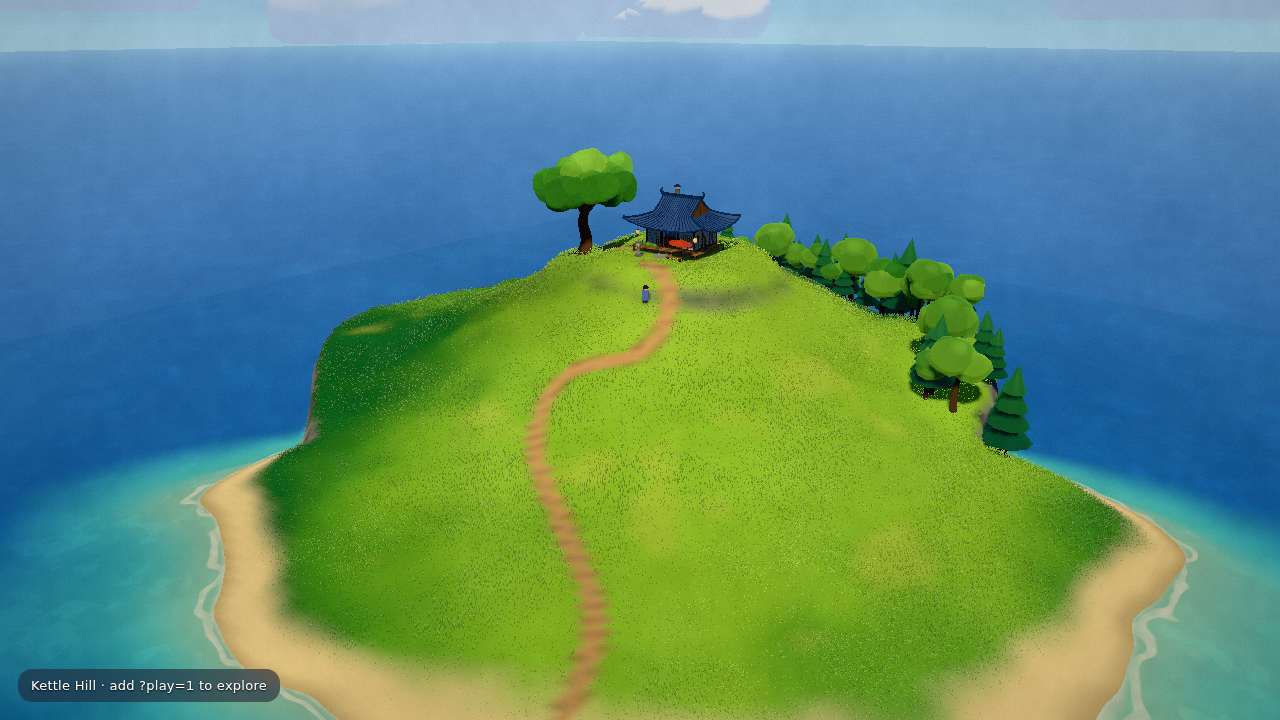
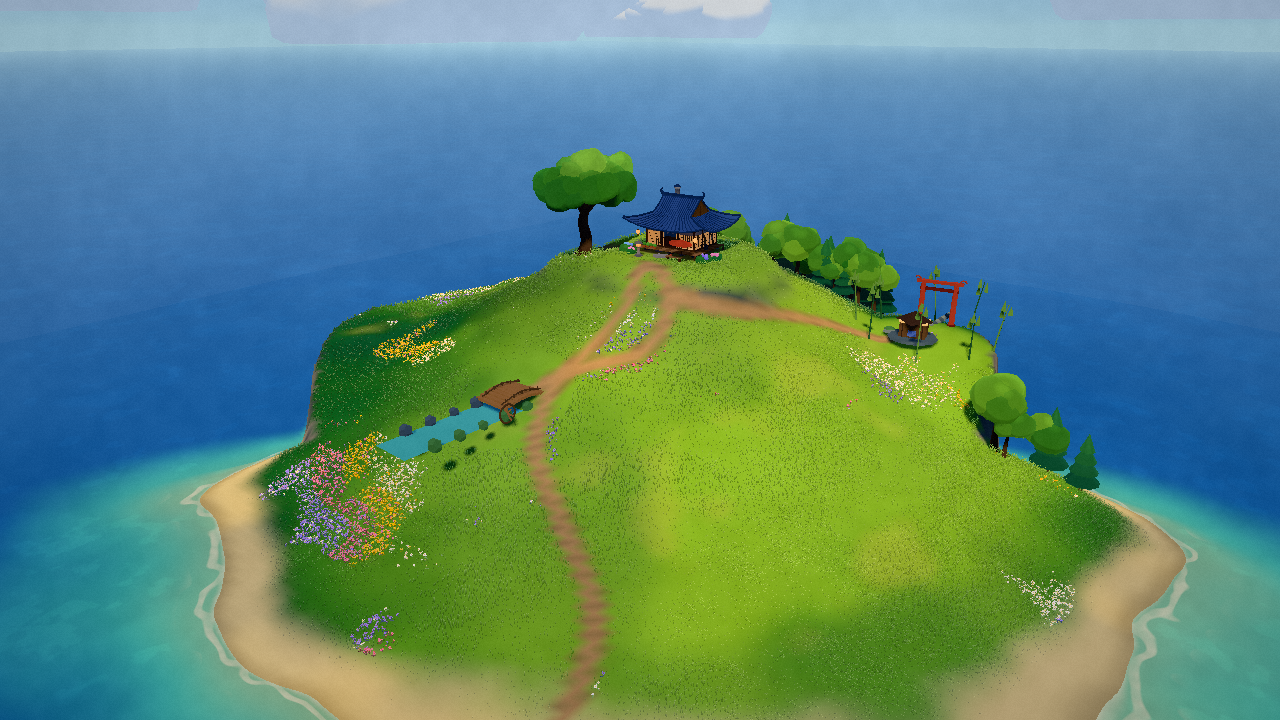
feat: begin visual upgrade with shrine and moonbridge destinations

diff --git a/src/models/places.ts b/src/models/places.ts
@@ -1,0 +1,115 @@
+import * as THREE from 'three';
+import { tube } from '../lib/geo';
+import { heightAt } from '../world/terrain';
+import { toon } from '../render/toon';
+
+export interface PlaceLandmark {
+  group: THREE.Group;
+  focus: THREE.Vector3;
+  name: string;
+}
+
+const MAT = {
+  wood: '#72523d', woodDark: '#45352f', bamboo: '#769b55', bambooDark: '#416442',
+  vermilion: '#b84f42', vermilionDark: '#74312e', stone: '#87918a', stoneDark: '#5d6866',
+  moss: '#5f8751', water: '#66b8ae', bridge: '#a97a4f', bridgeDark: '#614733',
+  paper: '#f2d59e', blue: '#6d83bd',
+};
+const m = (color: THREE.ColorRepresentation, rim = 0.3) => toon({ color, rim, vertexColors: false });
+const put = (g: THREE.Group, geo: THREE.BufferGeometry, mat: THREE.Material, x: number, y: number, z: number, scale = 1) => {
+  const o = new THREE.Mesh(geo, mat); o.position.set(x, y, z); o.scale.setScalar(scale); o.castShadow = o.receiveShadow = true; g.add(o); return o;
+};
+
+function torii(): THREE.Group {
+  const g = new THREE.Group();
+  const red = m(MAT.vermilion, 0.45), dark = m(MAT.vermilionDark, 0.3);
+  // two posts with stone feet, crossbeam and slightly lifted kasagi ends
+  for (const x of [-2.0, 2.0]) {
+    put(g, new THREE.CylinderGeometry(0.3, 0.38, 5.8, 10), red, x, 2.95, 0);
+    put(g, new THREE.CylinderGeometry(0.48, 0.55, 0.26, 8), dark, x, 0.15, 0);
+  }
+  put(g, new THREE.BoxGeometry(5.8, 0.34, 0.5), red, 0, 5.65, 0);
+  put(g, new THREE.BoxGeometry(4.8, 0.34, 0.4), dark, 0, 4.7, 0);
+  // curled, capped tips make the gate an authored silhouette rather than a box
+  for (const s of [-1, 1]) {
+    const tip = new THREE.Mesh(new THREE.TorusGeometry(0.45, 0.09, 6, 12, Math.PI * 0.85), red);
+    tip.position.set(s * 2.8, 5.75, 0); tip.rotation.z = s * 0.45; tip.castShadow = true; g.add(tip);
+  }
+  return g;
+}
+
+function bamboo(g: THREE.Group, x: number, z: number, h: number, lean: number, seed: number) {
+  const pts = [new THREE.Vector3(x, heightAt(x, z), z), new THREE.Vector3(x + lean * 0.25, heightAt(x, z) + h * 0.35, z + lean * 0.12), new THREE.Vector3(x + lean, heightAt(x, z) + h, z + lean * 0.35)];
+  const stem = new THREE.Mesh(tube(pts, 0.11, 0.06, 8, 10), m(seed % 2 ? MAT.bamboo : MAT.bambooDark, 0.45));
+  stem.castShadow = stem.receiveShadow = true; g.add(stem);
+  for (let i = 1; i < 6; i++) {
+    const t = i / 6; const y = heightAt(x, z) + h * t; const xx = x + lean * t; const zz = z + lean * 0.35 * t;
+    const node = new THREE.Mesh(new THREE.TorusGeometry(0.115 - t * 0.04, 0.018, 5, 8), m(MAT.bambooDark, 0.25)); node.position.set(xx, y, zz); node.rotation.x = Math.PI / 2; g.add(node);
+  }
+  const leaves = [
+    [x + lean * 0.85 - 0.5, heightAt(x, z) + h * 0.82, z + lean * 0.25],
+    [x + lean * 0.9 + 0.45, heightAt(x, z) + h * 0.9, z + lean * 0.35],
+    [x + lean * 0.6, heightAt(x, z) + h * 0.98, z + lean * 0.2 + 0.45],
+  ];
+  for (const [lx, ly, lz] of leaves) put(g, new THREE.ConeGeometry(0.33, 1.25, 5), m(MAT.bamboo, 0.5), lx, ly, lz, 1);
+}
+
+export function createBambooShrine(): PlaceLandmark {
+  const g = new THREE.Group();
+  const x = 30, z = -20, y = heightAt(x, z);
+  const grove = new THREE.Group();
+  for (let i = 0; i < 8; i++) {
+    const a = i * 2.399 + 0.3, r = 7.5 + (i % 3) * 0.65;
+    const bx = x + Math.cos(a) * r, bz = z + Math.sin(a) * r;
+    bamboo(grove, bx, bz, 5.6 + (i % 4) * 0.6, Math.sin(i * 4.2) * 1.2, i);
+  }
+  g.add(grove);
+  const gate = torii(); gate.position.set(x, y, z - 4.2); gate.rotation.y = 0.25; g.add(gate);
+  // small shrine behind the torii, with a blue noren and peaked roof
+  const hut = new THREE.Group(); hut.position.set(x, y + 0.12, z + 2.5); hut.rotation.y = 0.25;
+  put(g, new THREE.CylinderGeometry(2.8, 3.1, 0.28, 10), m(MAT.stoneDark, 0.25), x, y + 0.14, z + 2.5);
+  put(hut, new THREE.BoxGeometry(3.2, 2.0, 2.2), m(MAT.wood, 0.3), 0, 1.0, 0);
+  put(hut, new THREE.BoxGeometry(3.45, 0.18, 2.45), m(MAT.paper, 0.25), 0, 2.1, 0);
+  put(hut, new THREE.ConeGeometry(2.35, 1.25, 4), m(MAT.woodDark, 0.35), 0, 2.75, 0, 1);
+  put(hut, new THREE.BoxGeometry(1.0, 0.75, 0.06), m(MAT.blue, 0.4), 0, 0.72, 1.14);
+  for (const xx of [-1.2, 1.2]) put(hut, new THREE.BoxGeometry(0.12, 1.9, 0.12), m(MAT.woodDark, 0.25), xx, 1.0, 1.14);
+  g.add(hut);
+  // offering basin and stepping stones
+  put(g, new THREE.CylinderGeometry(0.65, 0.8, 0.42, 8), m(MAT.stone, 0.25), x - 3.2, y + 0.22, z + 2.4);
+  put(g, new THREE.CylinderGeometry(0.55, 0.7, 0.14, 8), m(MAT.moss, 0.45), x - 3.2, y + 0.49, z + 2.4);
+  for (let i = 0; i < 7; i++) put(g, new THREE.DodecahedronGeometry(0.38, 0), m(i % 2 ? MAT.stoneDark : MAT.stone, 0.3), x, y + 0.12, z - 9 + i * 1.0, 1.1);
+  return { group: g, focus: new THREE.Vector3(x, y + 2.2, z), name: 'Bamboo Shrine' };
+}
+
+function bridgeMesh(): THREE.Group {
+  const g = new THREE.Group();
+  const wood = m(MAT.bridge, 0.35), dark = m(MAT.bridgeDark, 0.25);
+  // deck planks run across the stream, raised in a gentle arch along +Z
+  for (let i = -5; i <= 5; i++) {
+    const z = i * 0.58, arch = 0.55 * (1 - (z / 3.0) ** 2);
+    put(g, new THREE.BoxGeometry(4.8, 0.32, 0.5), wood, 0, arch + 0.72, z);
+  }
+  for (const x of [-1.65, 1.65]) {
+    const pts = [new THREE.Vector3(x, 1.1, -3), new THREE.Vector3(x, 1.75, 0), new THREE.Vector3(x, 1.1, 3)];
+    const r = new THREE.Mesh(tube(pts, 0.1, 0.08, 7, 12), dark); r.castShadow = true; g.add(r);
+    for (let i = -2; i <= 2; i++) put(g, new THREE.BoxGeometry(0.12, 0.65, 0.12), dark, x, 1.08 + 0.45 * (1 - (i / 2.5) ** 2), i * 1.18);
+  }
+  return g;
+}
+
+export function createMoonbridge(): PlaceLandmark {
+  const g = new THREE.Group(); const x = 2, z = 24, y = heightAt(x, z);
+  // stream: a shallow blue ribbon plus mossy banks and stones
+  const stream = m(MAT.water, 0.5);
+  const water = new THREE.Mesh(new THREE.PlaneGeometry(9, 30, 1, 12), stream); water.rotation.x = -Math.PI / 2; water.position.set(x, y - 0.18, z + 1); water.scale.x = 0.55; water.receiveShadow = true; g.add(water);
+  for (const side of [-1, 1]) {
+    for (let i = -4; i <= 4; i++) put(g, new THREE.DodecahedronGeometry(0.55 + (i + 4) % 3 * 0.1, 0), m(side > 0 ? MAT.moss : MAT.stoneDark, 0.35), x + side * 2.5, y + 0.1, z + i * 3.1, 1.1);
+  }
+  const bridge = bridgeMesh(); bridge.position.set(x, y, z); g.add(bridge);
+  // waterwheel silhouette on the east bank
+  const wheel = new THREE.Group(); wheel.position.set(x + 3.0, y + 0.6, z + 3.3);
+  const disc = new THREE.Mesh(new THREE.TorusGeometry(1.05, 0.12, 7, 14), m(MAT.bridgeDark, 0.3)); disc.rotation.y = Math.PI / 2; wheel.add(disc);
+  for (let i = 0; i < 8; i++) put(wheel, new THREE.BoxGeometry(0.12, 1.8, 0.16), m(MAT.bridge, 0.25), 0, 0, 0, 1);
+  wheel.children.slice(1).forEach((o, i) => o.rotation.z = i * Math.PI / 4); g.add(wheel);
+  return { group: g, focus: new THREE.Vector3(x, y + 1.5, z), name: 'Moonbridge Stream' };
+}

diff --git a/src/main.ts b/src/main.ts
@@ -3,12 +3,13 @@ import { globalUniforms, toon } from './render/toon';
 import { createPost } from './render/post';
 import { dayState } from './world/daylight';
 import { createSky } from './world/sky';
-import { buildTerrain, heightAt, HOUSE, HOUSE_ROT, HERO_TREE, LOOKOUT, surfaceAt } from './world/terrain';
+import { buildTerrain, heightAt, HOUSE, HOUSE_ROT, HERO_TREE, LOOKOUT, SHRINE, BRIDGE, surfaceAt } from './world/terrain';
 import { createSea } from './world/sea';
 import { createGrass } from './world/grass';
 import { createClouds } from './world/clouds';
 import { createHeroTree, createSmallTree } from './models/trees';
 import { createTeaHouse } from './models/teahouse';
+import { createBambooShrine, createMoonbridge } from './models/places';
 import { mulberry32 } from './lib/noise';
 import { InputController } from './game/input';
 import { createFlowers, createHydrangeas, createPetals } from './world/life';
@@ -92,6 +93,12 @@ const house = createTeaHouse();
 house.group.position.copy(HOUSE);
 house.group.rotation.y = HOUSE_ROT;
 scene.add(house.group);
+
+// authored discovery landmarks: each gets a distinct silhouette and a reveal camera
+const shrine = createBambooShrine();
+scene.add(shrine.group);
+const bridge = createMoonbridge();
+scene.add(bridge.group);
 const lanternLights: THREE.PointLight[] = [];
 for (const a of house.lightAnchors) {
   const l = new THREE.PointLight(0xffb060, 0, 9, 1.6);
@@ -122,6 +129,9 @@ for (let i = 0; i < 400 && planted < 46; i++) {
   const s = surfaceAt(x, z);
   if (s.kind !== 'grass' || heightAt(x, z) < 1.5) continue;
   if (Math.hypot(x - HOUSE.x, z - HOUSE.z) < 16) continue;
+  // reserve clearings around discovery landmarks; distant trees frame them, not bury them
+  if (Math.hypot(x - SHRINE.x, z - SHRINE.z) < 18) continue;
+  if (Math.hypot(x - BRIDGE.x, z - BRIDGE.z) < 12) continue;
   const t = createSmallTree(100 + i, rand() < 0.45 ? 'pine' : 'round');
   t.position.set(x, groundMin(x, z, 0.5) - 0.08, z);
   t.rotation.y = rand() * 6.28;
@@ -229,6 +239,9 @@ const presets: Record<string, [THREE.Vector3, THREE.Vector3]> = {
   corner: [house.group.localToWorld(new THREE.Vector3(10.5, 6.2, 9.5)), house.group.localToWorld(new THREE.Vector3(5.2, 3.9, 3.8))],
   cornerlow: [house.group.localToWorld(new THREE.Vector3(9.5, 2.2, 9.0)), house.group.localToWorld(new THREE.Vector3(5.2, 3.9, 3.8))],
   tip: [house.group.localToWorld(new THREE.Vector3(5.2, 3.6, 11.5)), house.group.localToWorld(new THREE.Vector3(5.6, 4.1, 4.6))],
+  // high reveal camera: the shrine sits on the eastern shoulder; stay above the intervening ridge
+  shrine: [new THREE.Vector3(shrine.focus.x + 10, shrine.focus.y + 16, shrine.focus.z - 20), new THREE.Vector3(shrine.focus.x, shrine.focus.y + 0.8, shrine.focus.z)],
+  bridge: [new THREE.Vector3(bridge.focus.x + 8, bridge.focus.y + 4.2, bridge.focus.z + 10), bridge.focus],
 };
 HERO_TREE.y = heightAt(HERO_TREE.x, HERO_TREE.z);
 presets.tree = [new THREE.Vector3(HERO_TREE.x + 13, HERO_TREE.y + 3, HERO_TREE.z + 17), new THREE.Vector3(HERO_TREE.x - 4, HERO_TREE.y + 5.5, HERO_TREE.z - 2)];

diff --git a/src/world/terrain.ts b/src/world/terrain.ts
@@ -16,11 +16,16 @@ export const HOUSE = new THREE.Vector3(2, 0, -6); // y filled in at bake
 export const HOUSE_ROT = 0.12; // yaw of the tea house (radians)
 export const HERO_TREE = new THREE.Vector3(-11, 0, -1);
 export const LOOKOUT = new THREE.Vector3(-34, 0, -9);
+export const SHRINE = new THREE.Vector3(30, 0, -20);
+export const BRIDGE = new THREE.Vector3(2, 0, 24);
 
 // Path: beach -> switchbacks -> tea house porch.
 const PATH_POINTS = [
   [36, 52], [30, 40], [19, 33], [9, 27], [5, 19], [11, 12], [9, 5], [3, 2],
 ].map(([x, z]) => new THREE.Vector3(x, 0, z));
+// Discovery paths: the teahouse junction branches to the stream and bamboo shrine.
+const BRIDGE_PATH_POINTS = [[3, 2], [5, 9], [5, 16], [2, 24]].map(([x, z]) => new THREE.Vector3(x, 0, z));
+const SHRINE_PATH_POINTS = [[9, 5], [15, 1], [21, -8], [30, -20]].map(([x, z]) => new THREE.Vector3(x, 0, z));
 // Side path to the cliff lookout.
 const LOOKOUT_POINTS = [
   [-4, -2], [-14, -6], [-24, -6], [-32, -9],
@@ -38,6 +43,8 @@ function sampleCurve(points: THREE.Vector3[], n: number): Float32Array {
 }
 export const PATH = sampleCurve(PATH_POINTS, 220);
 export const LOOKOUT_PATH = sampleCurve(LOOKOUT_POINTS, 80);
+export const BRIDGE_PATH = sampleCurve(BRIDGE_PATH_POINTS, 130);
+export const SHRINE_PATH = sampleCurve(SHRINE_PATH_POINTS, 150);
 
 function distToPolyline(poly: Float32Array, x: number, z: number): number {
   let best = 1e9;
@@ -115,6 +122,7 @@ function bake() {
       if (Math.abs(x) < 70 && z > -30 && z < 70) {
         pd = Math.min(distToPolyline(PATH, x, z), distToPolyline(LOOKOUT_PATH, x, z));
       }
+      pd = Math.min(pd, distToPolyline(BRIDGE_PATH, x, z), distToPolyline(SHRINE_PATH, x, z));
       pathDist[idx(i, j)] = pd;
       h -= 0.12 * smoothstep(1.6, 0.4, pd);
       heights[idx(i, j)] = h;

diff --git a/src/world/grass.ts b/src/world/grass.ts
@@ -48,6 +48,10 @@ export function createGrass(count = 140000, radius = 78) {
     const r = Math.sqrt(rand()) * radius;
     const x = Math.cos(a) * r + 2, z = Math.sin(a) * r * 0.95 + 4;
     const surf = surfaceAt(x, z);
+    // authored clearings keep the shrine/bridge silhouettes readable from their reveal shots
+    const shrineClear = Math.hypot(x - 30, z + 20) < 9;
+    const bridgeClear = Math.hypot(x - 2, z - 24) < 7;
+    if (shrineClear || bridgeClear) continue;
     // clumpy density: meadows have thick and thin patches
     const clump = fbm2(x * 0.15 + 5, z * 0.15 - 3, 3);
     const keep = surf.grassiness * (0.35 + 0.9 * smoothstep(0.3, 0.6, clump));

diff --git a/VISUAL_UPGRADE_PLAN.md b/VISUAL_UPGRADE_PLAN.md
@@ -1,0 +1,84 @@
+# Kettle Hill — Visual Upgrade Plan
+
+## Goal
+
+Move Kettle Hill from a polished single-scene prototype to a small, memorable cozy world: a place players want to wander through, photograph, and return to. The game stays original-IP, hand-modelled, Three.js + TypeScript + Vite, with a single-file production build.
+
+## What is weak today
+
+- The tea house is attractive but is still the only meaningful destination.
+- The playable world feels smaller than the terrain grid because the paths and landmarks stop early.
+- The character is now readable, but still needs stronger silhouette, posing and contextual animation.
+- The scene has mood systems (golden hour, flowers, petals, glow), but not enough authored composition or discovery payoff.
+
+## North-star art direction
+
+- **Shape language:** round, hand-built, slightly imperfect silhouettes; no generic primitives as hero objects.
+- **Colour:** calm sea/indigo/leaf greens, punctuated by warm windows, vermilion gates and one accent colour per place.
+- **Lighting:** warm key + cool fill, visible long shadows, soft cloud shadows, light sources that imply a lived-in world.
+- **Composition:** every destination gets a strong silhouette, a path reveal, a framed view, and a small soundless story told by props.
+- **Player fantasy:** a tea-keeper walking between beautiful places, collecting ingredients and small moments—not rushing or failing.
+
+## Execution order
+
+### Phase 1 — World expansion vertical slice (in progress)
+
+Add two authored destinations beyond the tea house and connect them with paths:
+
+1. **Bamboo Shrine:** vermilion torii, mossy offering stones, firefly pockets, wind-bent bamboo, and a framed sea view.
+2. **Moonbridge Stream:** a hand-built arched footbridge over a shallow stream, stepping stones and a waterwheel.
+
+Acceptance gate: the aerial view clearly shows more than one destination; the player can walk to the first new landmark; each place has a distinct silhouette and a grounded path.
+
+### Phase 2 — Composition and discovery
+
+- Replace the current generic camera presets with reveal shots for the shrine, bridge, cove and tea house.
+- Add sightline landmarks: torii on a ridge, bridge glint in a valley, tea-house smoke from a distance.
+- Add authored foreground framing and remove repeated grass-card patterns in hero shots.
+- Add a clean screenshot mode and keep the player visible only in gameplay shots.
+
+Acceptance gate: each place reads in a five-second screenshot without explanation.
+
+### Phase 3 — Player hero pass
+
+- Refine the tea-keeper proportions, face, hands and idle pose.
+- Add contextual animations: greet at the shrine, pause at the bridge, hold a gathered herb, sit at the tea house.
+- Add a simple interaction prompt and a first collectible herb loop.
+
+Acceptance gate: the character remains appealing in close-up, gameplay distance and movement.
+
+### Phase 4 — Living world pass
+
+- Add stream animation, bamboo sway, shrine ribbons, birds, butterflies and water reflections.
+- Give each place one ambient event: falling bamboo leaves, bridge fireflies, cove foam, tea-house steam.
+- Keep all particles seeded and quality-tiered.
+
+Acceptance gate: a still image shows life; a ten-second capture shows gentle change rather than noise.
+
+### Phase 5 — Material and lighting pass
+
+- Add contact darkening under bridge/shrine/props, moss and damp rock variation, and selective tile/wood highlights.
+- Tune sunset, noon and night separately; protect shoji readability from bloom.
+- Test desktop and low-quality modes before adding density.
+
+Acceptance gate: no floating props, bare rectangles, black foliage, clipped emissives or shader errors.
+
+### Phase 6 — Playable cozy loop
+
+- Walk, gather, brew and serve one tea recipe.
+- Add a tiny tea-house journal that records discovered places and ingredients.
+- Add optional async letters only after the single-player loop is satisfying; moderation and safety are required for multiplayer.
+
+Acceptance gate: a first-time player can discover a place, gather something, return home and see a visible change.
+
+## Working method
+
+- Implement one destination at a time, not a procedural blob of landmarks.
+- Render a dedicated review shot after each destination.
+- Run `npx tsc --noEmit`, `npm run build`, `node scripts/shots.mjs docs/shots`, and `node scripts/playtest.mjs` before each milestone commit.
+- Commit and push each coherent slice. Never claim visual quality from a successful build alone.
+- Use `?q=low` as a fallback; validate frame rate on a real laptop or phone because headless Chromium uses SwiftShader here.
+
+## Current slice
+
+The first implementation is the **Bamboo Shrine** and its connecting path. The bridge follows after the shrine has passed grounding and visual review.

diff --git a/README.md b/README.md
@@ -49,3 +49,8 @@ The build is a single self-contained `dist/index.html`. The generated screenshot
 ## Project direction
 
 The current milestone is the 3D style test plus the first behind-player movement prototype. The next development slice is to improve the playable camera framing and add the first interactive tea-house destination before expanding into gathering and brewing.
+
+
+## Next milestone
+
+See [VISUAL_UPGRADE_PLAN.md](VISUAL_UPGRADE_PLAN.md) for the authored world-expansion and visual-upgrade roadmap.
